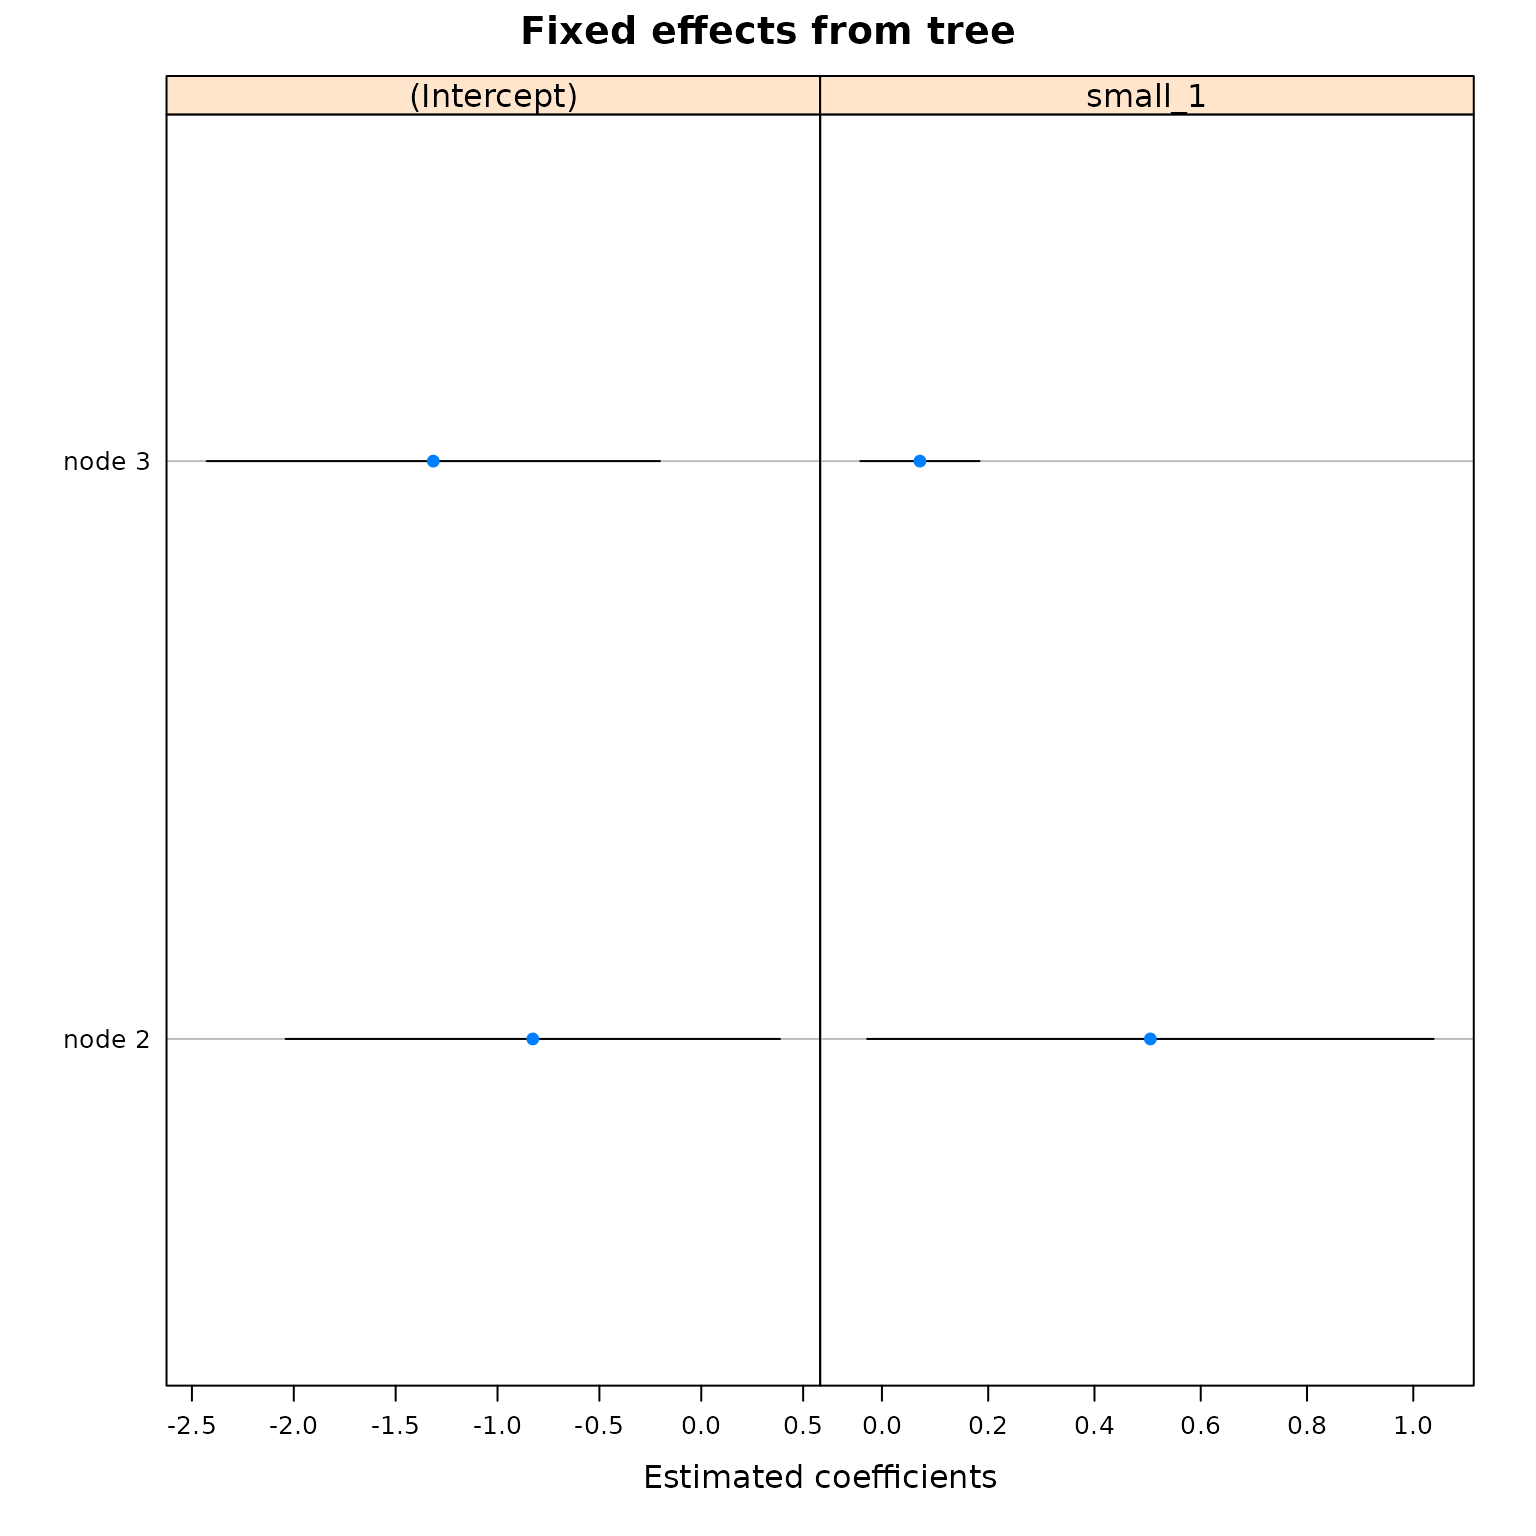
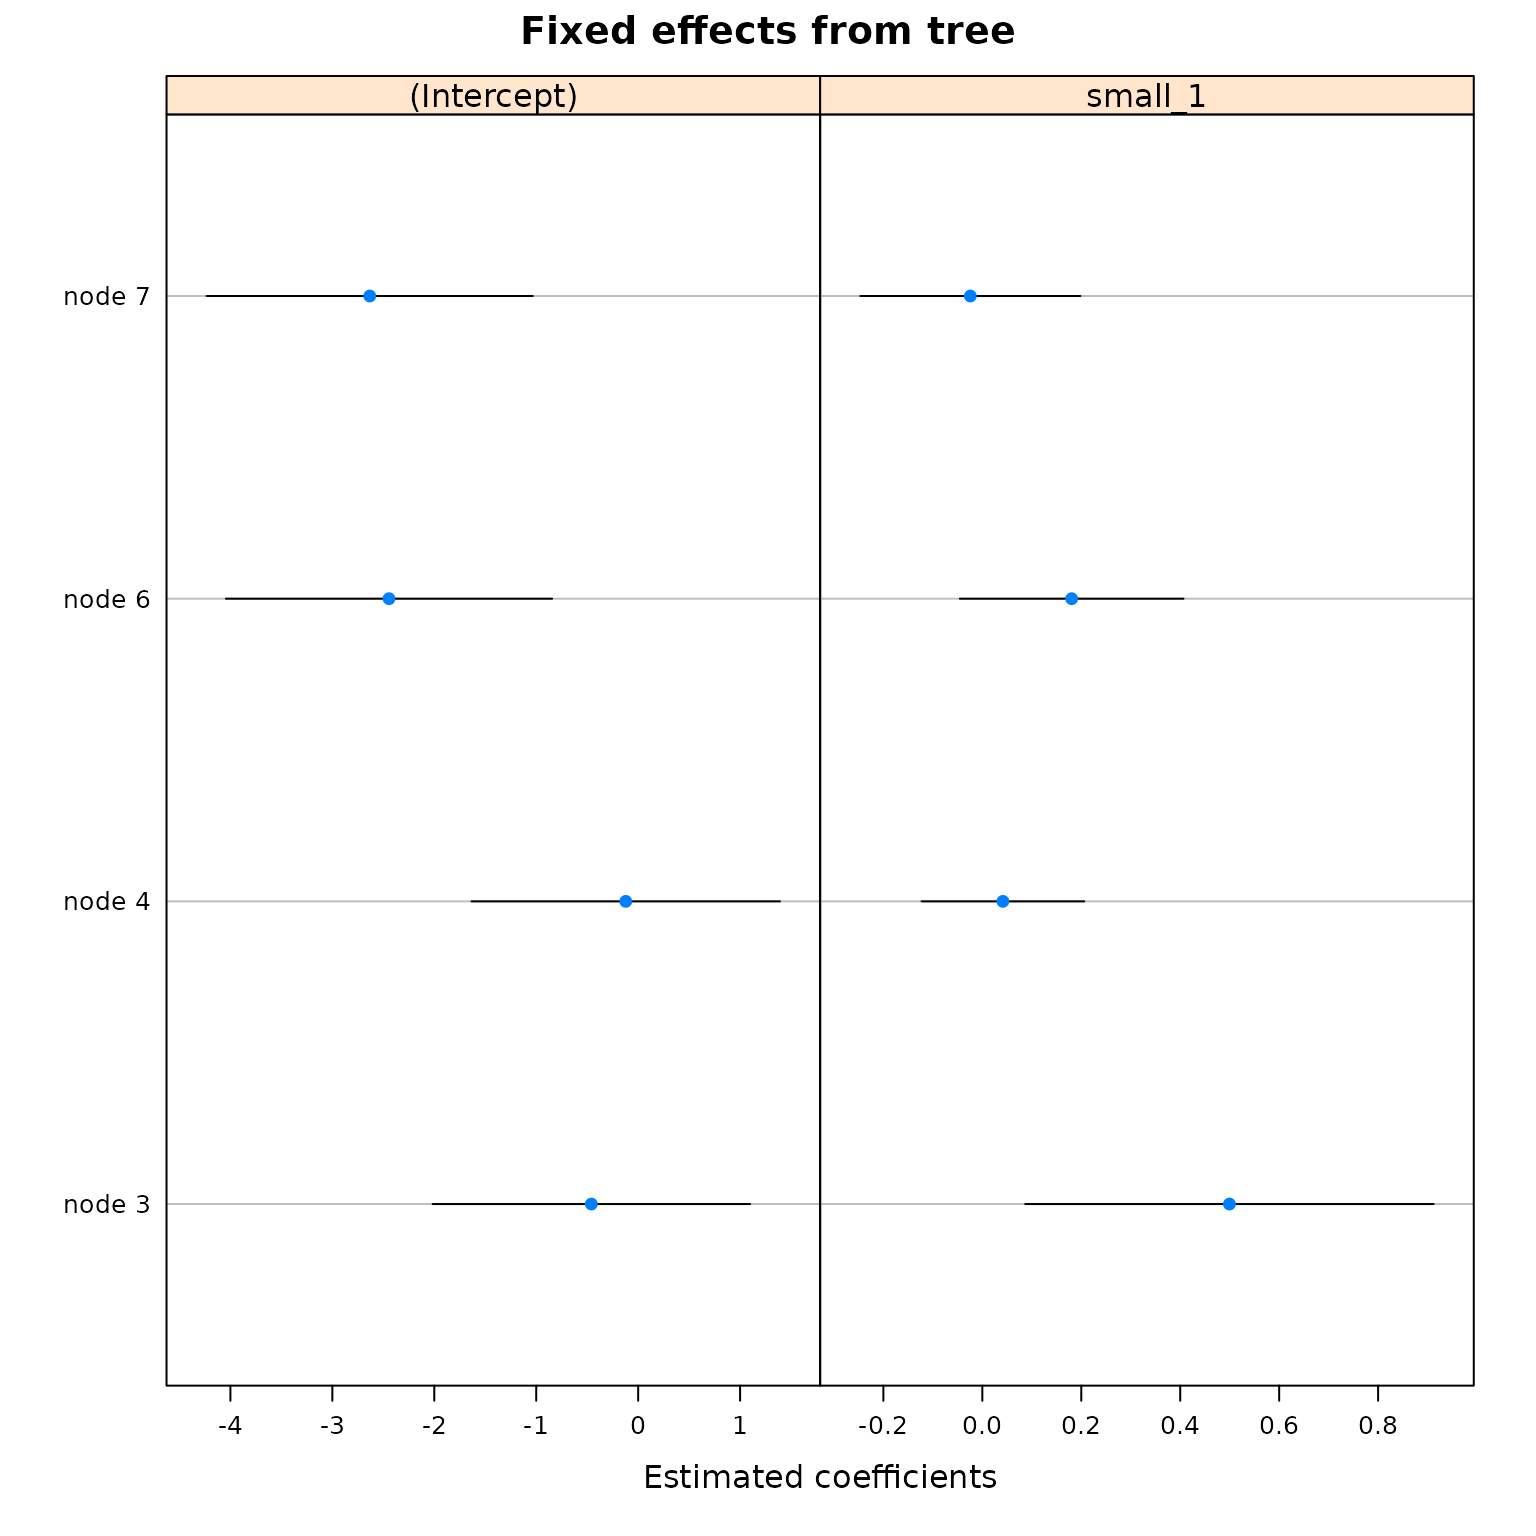
Built site for gardenr: 0.0.0.9000@6cb08e7

diff --git a/articles/intro-gardenr.html b/articles/intro-gardenr.html
@@ -94,7 +94,7 @@
 <code class="sourceCode R"><span class="va">example_split</span> <span class="op">&lt;-</span> <span class="fu">rsample</span><span class="fu">::</span><span class="fu"><a href="https://rsample.tidymodels.org/reference/initial_split.html" class="external-link">initial_split</a></span><span class="op">(</span><span class="va">dat</span><span class="op">)</span>
 <span class="va">example_train</span> <span class="op">&lt;-</span> <span class="fu">rsample</span><span class="fu">::</span><span class="fu"><a href="https://rsample.tidymodels.org/reference/initial_split.html" class="external-link">training</a></span><span class="op">(</span><span class="va">example_split</span><span class="op">)</span>
 <span class="va">example_test</span>  <span class="op">&lt;-</span>  <span class="fu">rsample</span><span class="fu">::</span><span class="fu"><a href="https://rsample.tidymodels.org/reference/initial_split.html" class="external-link">testing</a></span><span class="op">(</span><span class="va">example_split</span><span class="op">)</span>
-<span class="va">cv</span> <span class="op">&lt;-</span> <span class="fu">rsample</span><span class="fu">::</span><span class="fu"><a href="https://rsample.tidymodels.org/reference/vfold_cv.html" class="external-link">vfold_cv</a></span><span class="op">(</span>data <span class="op">=</span> <span class="va">example_train</span>, v <span class="op">=</span> <span class="fl">2</span><span class="op">)</span></code></pre></div>
+<span class="va">cv</span> <span class="op">&lt;-</span> <span class="fu">rsample</span><span class="fu">::</span><span class="fu"><a href="https://rsample.tidymodels.org/reference/vfold_cv.html" class="external-link">vfold_cv</a></span><span class="op">(</span>data <span class="op">=</span> <span class="va">example_train</span>, v <span class="op">=</span> <span class="fl">10</span><span class="op">)</span></code></pre></div>
 </div>
 <div class="section level2">
 <h2 id="make-a-formula-object">Make a <code>Formula</code> object<a class="anchor" aria-label="anchor" href="#make-a-formula-object"></a>
@@ -160,16 +160,16 @@
 <span class="co">#&gt; <span style="color: #949494;"># A tibble: 10 × 8</span></span>
 <span class="co">#&gt;    grid_index maxdepth_par alpha_par trim_par mean_rmse se_rmse mean_mae  se_mae</span>
 <span class="co">#&gt;         <span style="color: #949494; font-style: italic;">&lt;int&gt;</span>        <span style="color: #949494; font-style: italic;">&lt;int&gt;</span>     <span style="color: #949494; font-style: italic;">&lt;dbl&gt;</span>    <span style="color: #949494; font-style: italic;">&lt;dbl&gt;</span>     <span style="color: #949494; font-style: italic;">&lt;dbl&gt;</span>   <span style="color: #949494; font-style: italic;">&lt;dbl&gt;</span>    <span style="color: #949494; font-style: italic;">&lt;dbl&gt;</span>   <span style="color: #949494; font-style: italic;">&lt;dbl&gt;</span></span>
-<span class="co">#&gt; <span style="color: #BCBCBC;"> 1</span>          8            2   0.066<span style="text-decoration: underline;">4</span>    0.471       2.10  0.026<span style="text-decoration: underline;">0</span>  0.002<span style="text-decoration: underline;">53</span> 9.88<span style="color: #949494;">e</span><span style="color: #BB0000;">-6</span></span>
-<span class="co">#&gt; <span style="color: #BCBCBC;"> 2</span>          3           14   0.005<span style="text-decoration: underline;">64</span>   0.022<span style="text-decoration: underline;">9</span>      2.11  0.021<span style="text-decoration: underline;">0</span>  0.002<span style="text-decoration: underline;">53</span> 1.42<span style="color: #949494;">e</span><span style="color: #BB0000;">-5</span></span>
-<span class="co">#&gt; <span style="color: #BCBCBC;"> 3</span>          5           19   0.005<span style="text-decoration: underline;">37</span>   0.273       2.11  0.021<span style="text-decoration: underline;">0</span>  0.002<span style="text-decoration: underline;">53</span> 1.42<span style="color: #949494;">e</span><span style="color: #BB0000;">-5</span></span>
-<span class="co">#&gt; <span style="color: #BCBCBC;"> 4</span>         10            3   0.083<span style="text-decoration: underline;">7</span>    0.043<span style="text-decoration: underline;">3</span>      2.11  0.025<span style="text-decoration: underline;">9</span>  0.002<span style="text-decoration: underline;">53</span> 9.61<span style="color: #949494;">e</span><span style="color: #BB0000;">-6</span></span>
-<span class="co">#&gt; <span style="color: #BCBCBC;"> 5</span>          6           11   0.011<span style="text-decoration: underline;">6</span>    0.453       2.11  0.029<span style="text-decoration: underline;">2</span>  0.002<span style="text-decoration: underline;">54</span> 8.98<span style="color: #949494;">e</span><span style="color: #BB0000;">-6</span></span>
-<span class="co">#&gt; <span style="color: #BCBCBC;"> 6</span>          2           19   0.054<span style="text-decoration: underline;">8</span>    0.099<span style="text-decoration: underline;">3</span>      2.13  0.058<span style="text-decoration: underline;">7</span>  0.002<span style="text-decoration: underline;">55</span> 2.28<span style="color: #949494;">e</span><span style="color: #BB0000;">-5</span></span>
-<span class="co">#&gt; <span style="color: #BCBCBC;"> 7</span>          4           10   0.044<span style="text-decoration: underline;">7</span>    0.158       2.14  0.052<span style="text-decoration: underline;">9</span>  0.002<span style="text-decoration: underline;">56</span> 1.41<span style="color: #949494;">e</span><span style="color: #BB0000;">-5</span></span>
-<span class="co">#&gt; <span style="color: #BCBCBC;"> 8</span>          9           12   0.081<span style="text-decoration: underline;">1</span>    0.034<span style="text-decoration: underline;">3</span>      2.15  0.033<span style="text-decoration: underline;">9</span>  0.002<span style="text-decoration: underline;">57</span> 5.68<span style="color: #949494;">e</span><span style="color: #BB0000;">-7</span></span>
-<span class="co">#&gt; <span style="color: #BCBCBC;"> 9</span>          7           15   0.047<span style="text-decoration: underline;">6</span>    0.334       2.15  0.037<span style="text-decoration: underline;">1</span>  0.002<span style="text-decoration: underline;">56</span> 4.77<span style="color: #949494;">e</span><span style="color: #BB0000;">-8</span></span>
-<span class="co">#&gt; <span style="color: #BCBCBC;">10</span>          1           13   0.099<span style="text-decoration: underline;">6</span>    0.402       2.16  0.035<span style="text-decoration: underline;">0</span>  0.002<span style="text-decoration: underline;">56</span> 2.37<span style="color: #949494;">e</span><span style="color: #BB0000;">-6</span></span></code></pre></div>
+<span class="co">#&gt; <span style="color: #BCBCBC;"> 1</span>         10            3   0.083<span style="text-decoration: underline;">7</span>    0.043<span style="text-decoration: underline;">3</span>      2.05  0.035<span style="text-decoration: underline;">2</span>   0.012<span style="text-decoration: underline;">5</span> 1.80<span style="color: #949494;">e</span><span style="color: #BB0000;">-4</span></span>
+<span class="co">#&gt; <span style="color: #BCBCBC;"> 2</span>          6           11   0.011<span style="text-decoration: underline;">6</span>    0.453       2.05  0.035<span style="text-decoration: underline;">0</span>   0.012<span style="text-decoration: underline;">4</span> 1.90<span style="color: #949494;">e</span><span style="color: #BB0000;">-4</span></span>
+<span class="co">#&gt; <span style="color: #BCBCBC;"> 3</span>          8            2   0.066<span style="text-decoration: underline;">4</span>    0.471       2.05  0.036<span style="text-decoration: underline;">5</span>   0.012<span style="text-decoration: underline;">5</span> 1.97<span style="color: #949494;">e</span><span style="color: #BB0000;">-4</span></span>
+<span class="co">#&gt; <span style="color: #BCBCBC;"> 4</span>          5           19   0.005<span style="text-decoration: underline;">37</span>   0.273       2.06  0.036<span style="text-decoration: underline;">6</span>   0.012<span style="text-decoration: underline;">5</span> 2.03<span style="color: #949494;">e</span><span style="color: #BB0000;">-4</span></span>
+<span class="co">#&gt; <span style="color: #BCBCBC;"> 5</span>          3           14   0.005<span style="text-decoration: underline;">64</span>   0.022<span style="text-decoration: underline;">9</span>      2.07  0.035<span style="text-decoration: underline;">8</span>   0.012<span style="text-decoration: underline;">5</span> 1.96<span style="color: #949494;">e</span><span style="color: #BB0000;">-4</span></span>
+<span class="co">#&gt; <span style="color: #BCBCBC;"> 6</span>          4           10   0.044<span style="text-decoration: underline;">7</span>    0.158       2.07  0.034<span style="text-decoration: underline;">4</span>   0.012<span style="text-decoration: underline;">5</span> 1.85<span style="color: #949494;">e</span><span style="color: #BB0000;">-4</span></span>
+<span class="co">#&gt; <span style="color: #BCBCBC;"> 7</span>          2           19   0.054<span style="text-decoration: underline;">8</span>    0.099<span style="text-decoration: underline;">3</span>      2.07  0.032<span style="text-decoration: underline;">8</span>   0.012<span style="text-decoration: underline;">6</span> 1.76<span style="color: #949494;">e</span><span style="color: #BB0000;">-4</span></span>
+<span class="co">#&gt; <span style="color: #BCBCBC;"> 8</span>          7           15   0.047<span style="text-decoration: underline;">6</span>    0.334       2.07  0.036<span style="text-decoration: underline;">7</span>   0.012<span style="text-decoration: underline;">5</span> 1.99<span style="color: #949494;">e</span><span style="color: #BB0000;">-4</span></span>
+<span class="co">#&gt; <span style="color: #BCBCBC;"> 9</span>          1           13   0.099<span style="text-decoration: underline;">6</span>    0.402       2.08  0.035<span style="text-decoration: underline;">6</span>   0.012<span style="text-decoration: underline;">6</span> 1.93<span style="color: #949494;">e</span><span style="color: #BB0000;">-4</span></span>
+<span class="co">#&gt; <span style="color: #BCBCBC;">10</span>          9           12   0.081<span style="text-decoration: underline;">1</span>    0.034<span style="text-decoration: underline;">3</span>      2.08  0.033<span style="text-decoration: underline;">6</span>   0.012<span style="text-decoration: underline;">6</span> 1.86<span style="color: #949494;">e</span><span style="color: #BB0000;">-4</span></span></code></pre></div>
 <div class="sourceCode" id="cb8"><pre class="downlit sourceCode r">
 <code class="sourceCode R"><span class="va">best_fit_trained</span> <span class="op">&lt;-</span> 
   <span class="fu"><a href="https://rdrr.io/pkg/glmertree/man/glmertree.html" class="external-link">lmertree</a></span><span class="op">(</span>
@@ -183,8 +183,8 @@
     verbose <span class="op">=</span> <span class="cn">TRUE</span>
   <span class="op">)</span>
 <span class="co">#&gt; 'log Lik.' -3015.466 (df=4)</span>
-<span class="co">#&gt; 'log Lik.' -3013.349 (df=6)</span>
-<span class="co">#&gt; 'log Lik.' -3013.349 (df=6)</span></code></pre></div>
+<span class="co">#&gt; 'log Lik.' -3011.777 (df=10)</span>
+<span class="co">#&gt; 'log Lik.' -3011.777 (df=10)</span></code></pre></div>
 </div>
 <div class="section level2">
 <h2 id="see-splits-as-plot">See Splits as Plot<a class="anchor" aria-label="anchor" href="#see-splits-as-plot"></a>
@@ -261,7 +261,7 @@
       <span class="fu"><a href="../reference/rmse.html">rmse</a></span><span class="op">(</span>observed_y <span class="op">=</span> <span class="va">outcome</span>, predicted_y <span class="op">=</span> <span class="va">predictions_default_hyperparams</span><span class="op">)</span>
     <span class="op">)</span>
 <span class="co">#&gt;   tuned_RMSE default_hyperparams_RMSE</span>
-<span class="co">#&gt; 1   2.027294                 2.044691</span></code></pre></div>
+<span class="co">#&gt; 1   2.020963                 2.044691</span></code></pre></div>
 </div>
   </main><aside class="col-md-3"><nav id="toc"><h2>On this page</h2>
     </nav></aside>

diff --git a/reference/alpha_par.html b/reference/alpha_par.html
@@ -74,16 +74,16 @@
 <span class="r-out co"><span class="r-pr">#&gt;</span> <span style="color: #949494;"># A tibble: 10 × 3</span></span>
 <span class="r-out co"><span class="r-pr">#&gt;</span>    maxdepth_par alpha_par trim_par</span>
 <span class="r-out co"><span class="r-pr">#&gt;</span>           <span style="color: #949494; font-style: italic;">&lt;int&gt;</span>     <span style="color: #949494; font-style: italic;">&lt;dbl&gt;</span>    <span style="color: #949494; font-style: italic;">&lt;dbl&gt;</span></span>
-<span class="r-out co"><span class="r-pr">#&gt;</span> <span style="color: #BCBCBC;"> 1</span>            4   0.074<span style="text-decoration: underline;">8</span>     0.201</span>
-<span class="r-out co"><span class="r-pr">#&gt;</span> <span style="color: #BCBCBC;"> 2</span>            5   0.054<span style="text-decoration: underline;">2</span>     0.122</span>
-<span class="r-out co"><span class="r-pr">#&gt;</span> <span style="color: #BCBCBC;"> 3</span>            3   0.008<span style="text-decoration: underline;">03</span>    0.110</span>
-<span class="r-out co"><span class="r-pr">#&gt;</span> <span style="color: #BCBCBC;"> 4</span>            2   0.043<span style="text-decoration: underline;">4</span>     0.114</span>
-<span class="r-out co"><span class="r-pr">#&gt;</span> <span style="color: #BCBCBC;"> 5</span>            2   0.002<span style="text-decoration: underline;">12</span>    0.256</span>
-<span class="r-out co"><span class="r-pr">#&gt;</span> <span style="color: #BCBCBC;"> 6</span>            5   0.089<span style="text-decoration: underline;">9</span>     0.283</span>
-<span class="r-out co"><span class="r-pr">#&gt;</span> <span style="color: #BCBCBC;"> 7</span>            5   0.004<span style="text-decoration: underline;">49</span>    0.150</span>
-<span class="r-out co"><span class="r-pr">#&gt;</span> <span style="color: #BCBCBC;"> 8</span>            2   0.089<span style="text-decoration: underline;">7</span>     0.116</span>
-<span class="r-out co"><span class="r-pr">#&gt;</span> <span style="color: #BCBCBC;"> 9</span>            3   0.027<span style="text-decoration: underline;">2</span>     0.248</span>
-<span class="r-out co"><span class="r-pr">#&gt;</span> <span style="color: #BCBCBC;">10</span>            2   0.061<span style="text-decoration: underline;">8</span>     0.271</span>
+<span class="r-out co"><span class="r-pr">#&gt;</span> <span style="color: #BCBCBC;"> 1</span>            5   0.009<span style="text-decoration: underline;">55</span>    0.128</span>
+<span class="r-out co"><span class="r-pr">#&gt;</span> <span style="color: #BCBCBC;"> 2</span>            3   0.041<span style="text-decoration: underline;">4</span>     0.140</span>
+<span class="r-out co"><span class="r-pr">#&gt;</span> <span style="color: #BCBCBC;"> 3</span>            5   0.056<span style="text-decoration: underline;">3</span>     0.176</span>
+<span class="r-out co"><span class="r-pr">#&gt;</span> <span style="color: #BCBCBC;"> 4</span>            2   0.098<span style="text-decoration: underline;">1</span>     0.114</span>
+<span class="r-out co"><span class="r-pr">#&gt;</span> <span style="color: #BCBCBC;"> 5</span>            4   0.004<span style="text-decoration: underline;">74</span>    0.243</span>
+<span class="r-out co"><span class="r-pr">#&gt;</span> <span style="color: #BCBCBC;"> 6</span>            3   0.001<span style="text-decoration: underline;">60</span>    0.116</span>
+<span class="r-out co"><span class="r-pr">#&gt;</span> <span style="color: #BCBCBC;"> 7</span>            4   0.079<span style="text-decoration: underline;">7</span>     0.259</span>
+<span class="r-out co"><span class="r-pr">#&gt;</span> <span style="color: #BCBCBC;"> 8</span>            2   0.018<span style="text-decoration: underline;">6</span>     0.271</span>
+<span class="r-out co"><span class="r-pr">#&gt;</span> <span style="color: #BCBCBC;"> 9</span>            2   0.075<span style="text-decoration: underline;">8</span>     0.245</span>
+<span class="r-out co"><span class="r-pr">#&gt;</span> <span style="color: #BCBCBC;">10</span>            4   0.096<span style="text-decoration: underline;">1</span>     0.142</span>
 </code></pre></div>
     </div>
   </main><aside class="col-md-3"><nav id="toc"><h2>On this page</h2>
